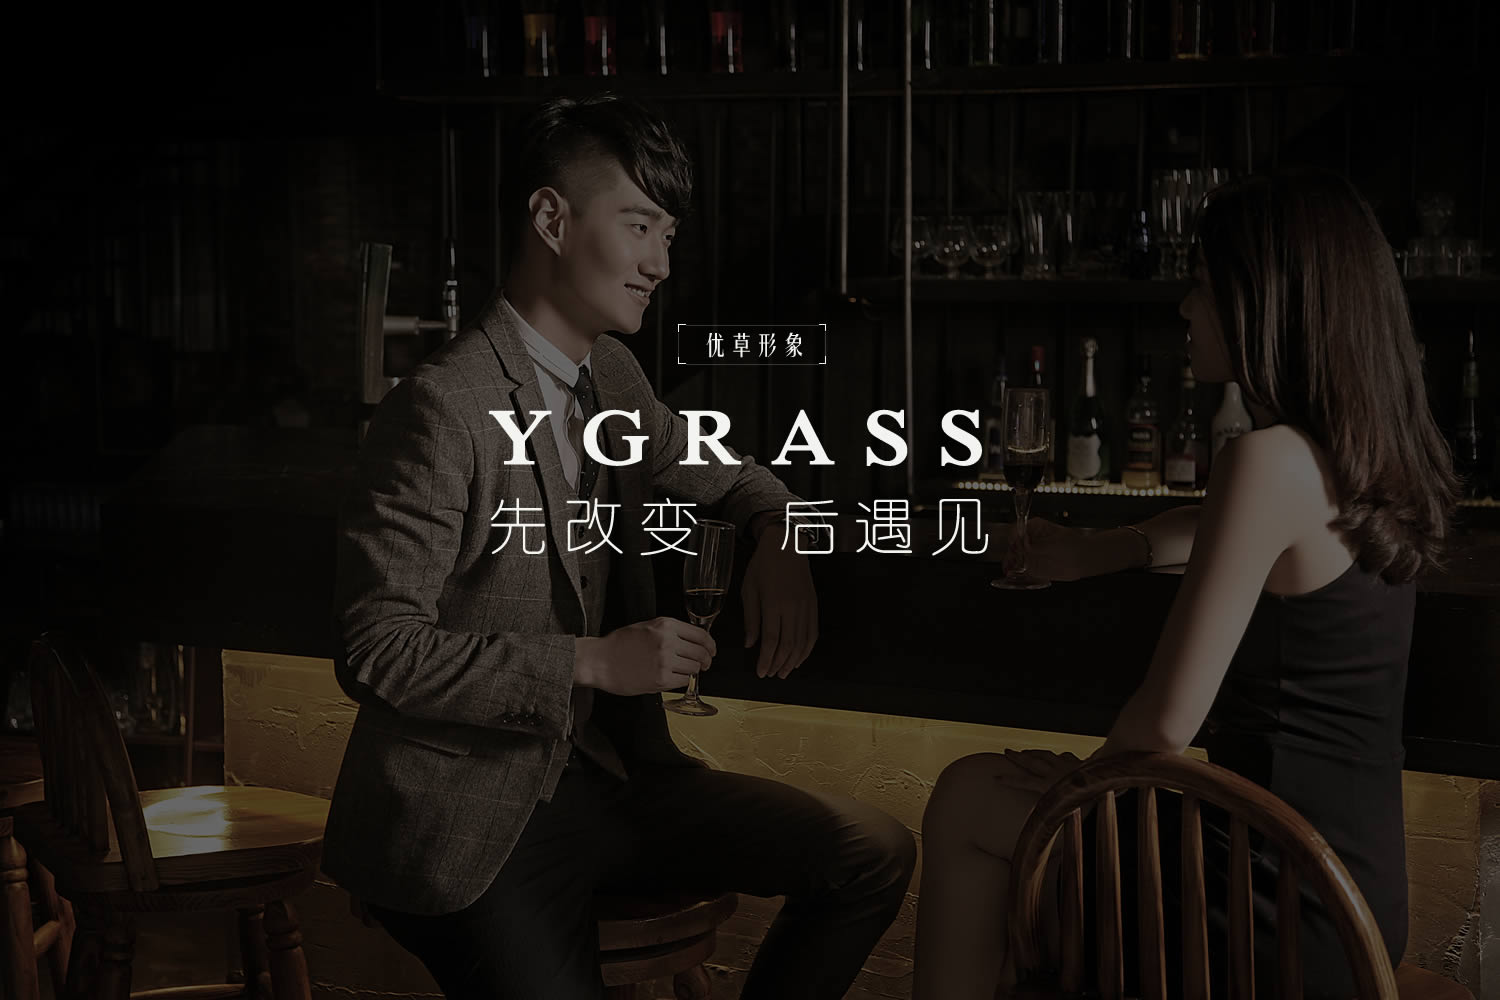
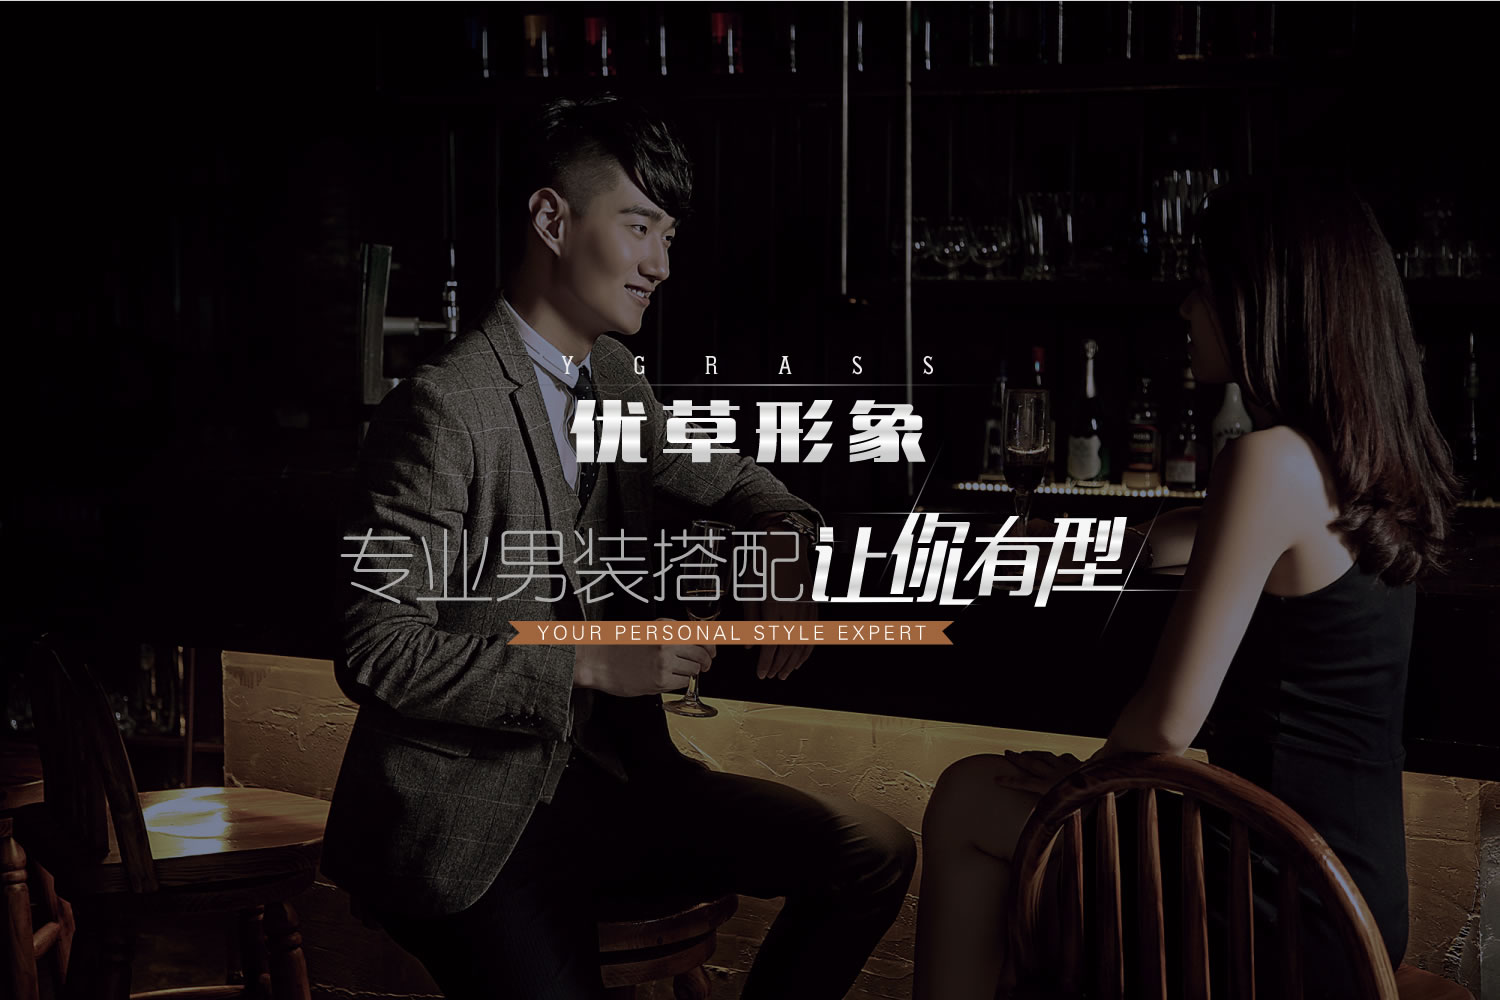
Updated home page

diff --git a/portals/templates/portals/index.html b/portals/templates/portals/index.html
@@ -11,6 +11,8 @@
 <div id="home" class="text-center">
     <div class="start">
         <div class="container">
+            <div style="height: 600px"></div>
+            {% comment %}
             <div class="row">
                 <div class="col-md-4">
                     <div class="simple-intro">
@@ -31,9 +33,12 @@
                     </div>
                 </div>
             </div>
+            {% endcomment %}
             <div class="row">
                 <div class="col-md-4 text-left">
+                    {% comment %}
                     <a class="btn more-intro" href="{% url 'portals:static_page' 'steps' %}">查看图文说明 >></a>
+                    {% endcomment %}
                 </div>
                 <div class="col-md-4 text-center">
                     <a href="{% url 'portals:survey' %}" class="btn">马上开始 ></a>
